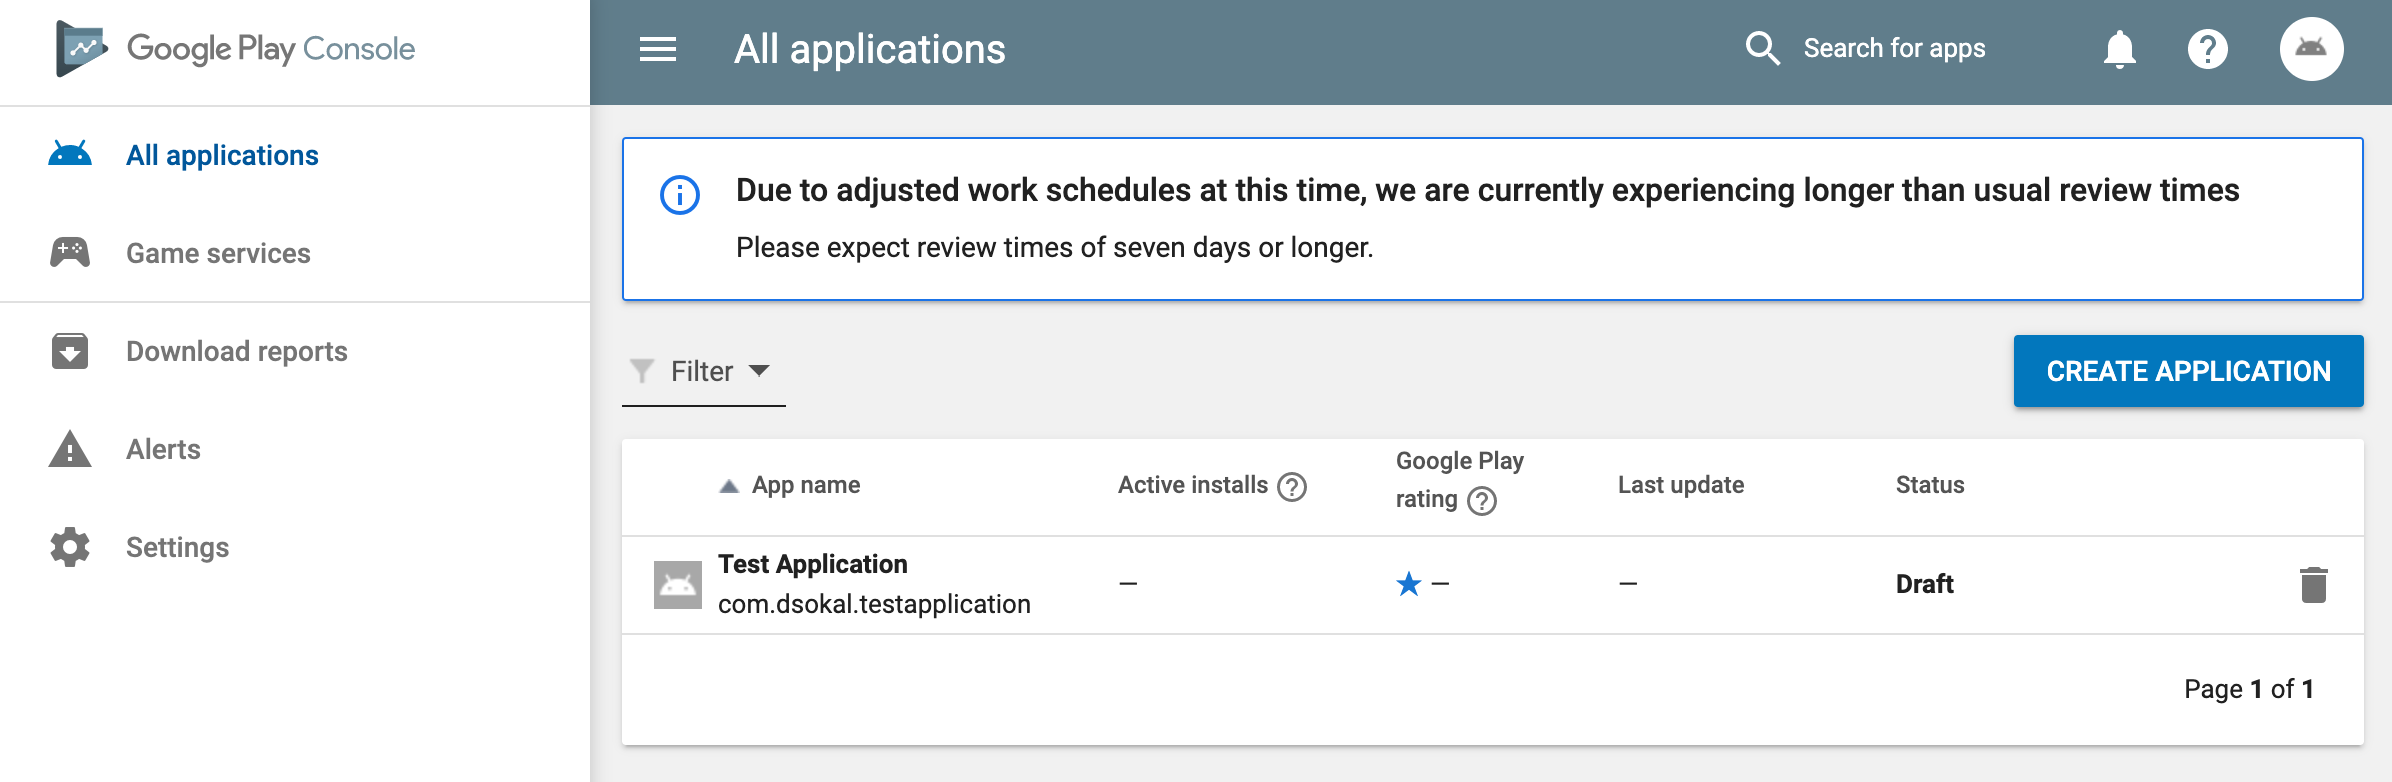
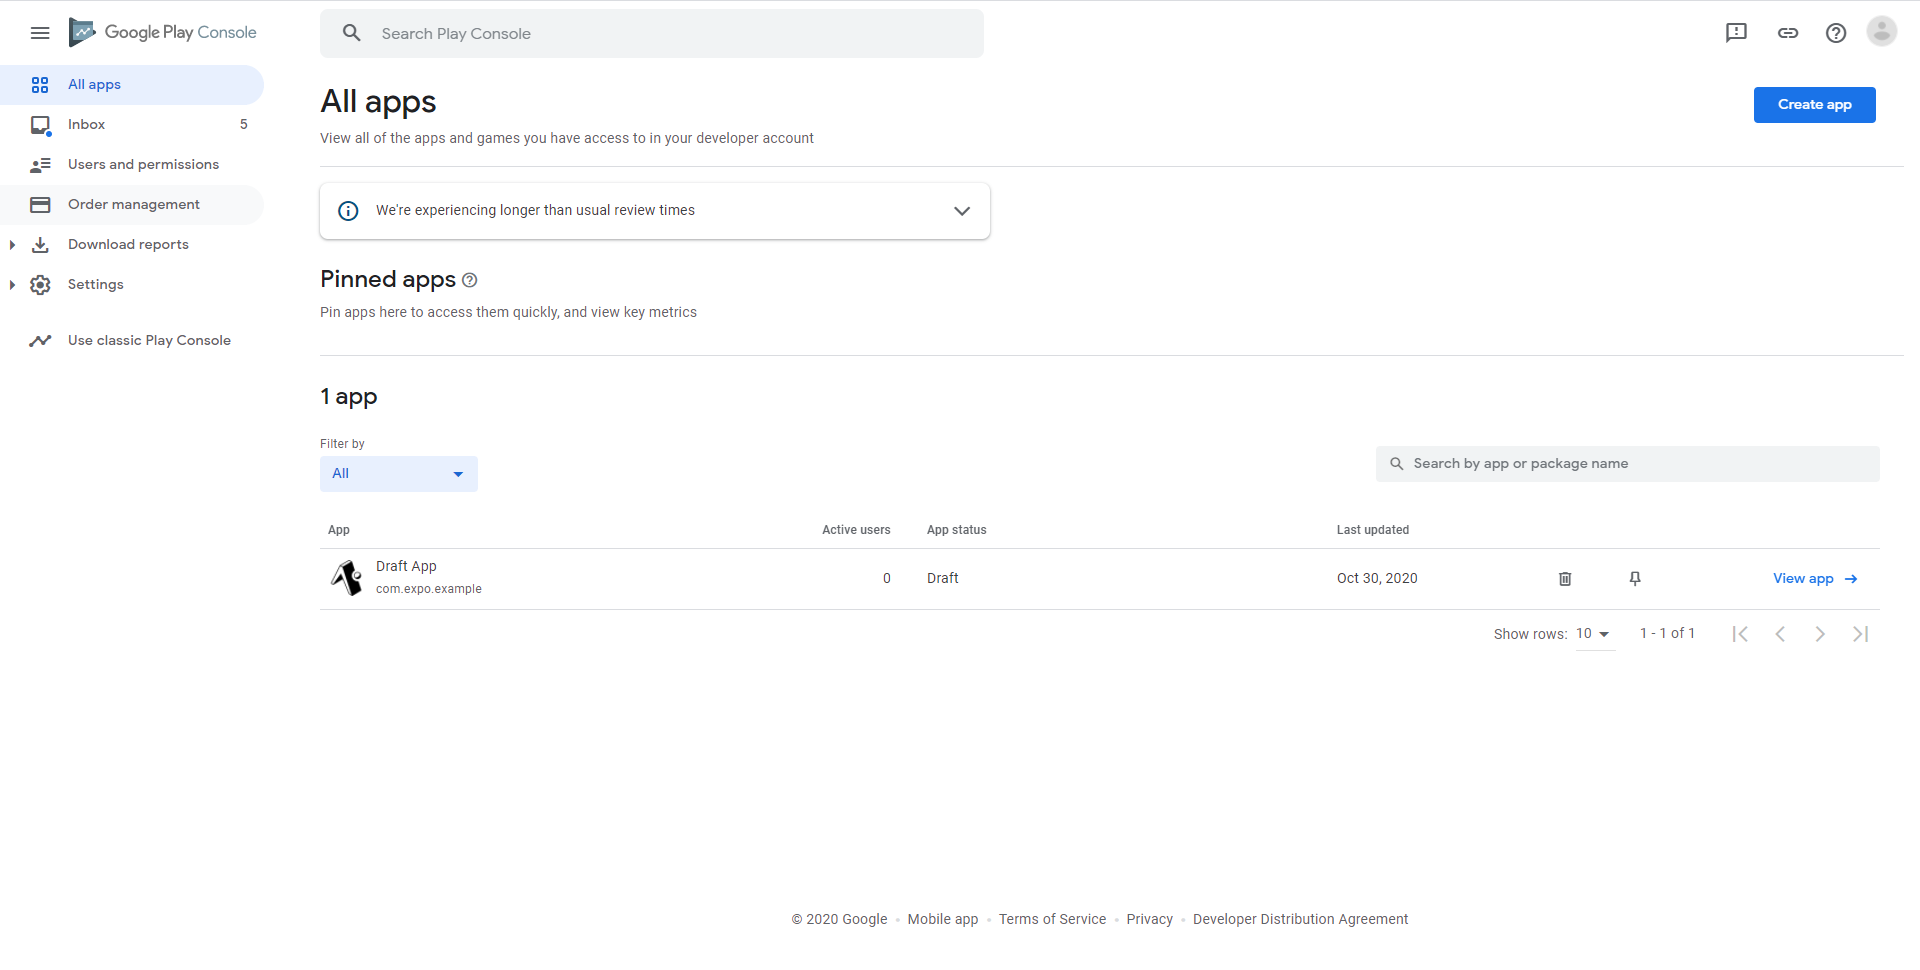
[Update] Use new screenshot of Google new console

diff --git a/first-android-submission.md b/first-android-submission.md
@@ -12,40 +12,45 @@ This page will guide you through creating an app in Google Play Console and uplo
 
 [<img src="./assets/first-android-submission/01-open-google-play-console.png" width="800" />](./assets/first-android-submission/01-open-google-play-console.png)
 
-2. Click the **CREATE APPLICATION** button. A modal will pop up.
-3. Select **Default language**, fill in the **Title** input and click **CREATE**.
+2. Click the **Create app** button.
+3. Select **Default language**, **App or game**, **Free or paid**, fill in the **App name** input and click **Create app**.
 
 [<img src="./assets/first-android-submission/02-create-application.png" width="800" />](./assets/first-android-submission/02-create-application.png)
 
-4. You'll be redirected to a new subpage where you can set **Product details**. **You don't need to set them now, come back and do this later.**
+4. You'll be redirected to a new page **Dashboard** where you need to fill all information about your application. **You don't need to set them now, come back and do this later.**
 
-[<img src="./assets/first-android-submission/03-product-details.png" width="800" />](./assets/first-android-submission/03-product-details.png)
+[<img src="./assets/first-android-submission/03-dashboard.png" width="800" />](./assets/first-android-submission/03-dashboard.png)
 
-5. Go to the **App releases** tab and scroll to the **Internal test track** section. Click the **MANAGE** button.
+5. You'll need to go through all steps to fill the application details
+>Note: This step is important otherwise, you will have some errors related to the application information when you want to publish your application.
 
-[<img src="./assets/first-android-submission/04-app-releases.png" width="800" />](./assets/first-android-submission/04-app-releases.png)
+[<img src="./assets/first-android-submission/04-steps.png" width="800" />](./assets/first-android-submission/04-steps.png)
 
-6. Click the **CREATE RELEASE** button.
+5. Go to the **Testing** tab and scroll to the **Internal test track** section and click on it.
 
-[<img src="./assets/first-android-submission/05-create-release.png" width="800" />](./assets/first-android-submission/05-create-release.png)
+[<img src="./assets/first-android-submission/05-testing.png" width="800" />](./assets/first-android-submission/05-testing.png)
 
-7. Opt in to app signing by Google Play. Althought it's not necessary, this will let you upload your app if you somehow happen to lose your Android Keystore. Click the **CONTINUE** button.
+6. Click the **Create new release** button.
 
-[<img src="./assets/first-android-submission/06-google-app-signing.png" width="800" />](./assets/first-android-submission/06-google-app-signing.png)
+[<img src="./assets/first-android-submission/06-create-release.png" width="800" />](./assets/first-android-submission/06-create-release.png)
+
+7. Opt in to app signing by Google Play. Althought it's not necessary, this will let you upload your app if you somehow happen to lose your Android Keystore. Click the **Continue** button.
+
+[<img src="./assets/first-android-submission/07-google-app-signing.png" width="800" />](./assets/first-android-submission/07-google-app-signing.png)
 
 8. Click **BROWSE FILES** and choose the `.apk` (or `.aab`) file from your computer to upload the archive.
 
-[<img src="./assets/first-android-submission/07-upload-apk.png" width="800" />](./assets/first-android-submission/07-upload-apk.png)
+[<img src="./assets/first-android-submission/08-upload-apk.png" width="800" />](./assets/first-android-submission/08-upload-apk.png)
 
 9. Once the upload completes, you'll see the archive type along with the **Version code**. The **Version code** is used to identify your app's releases. Each new release needs to have a unique **Version code**. If you're using the Expo Managed Workflow you can set this value in `app.json` - `expo.android.versionCode`.
 
-[<img src="./assets/first-android-submission/08-uploaded-apk.png" width="800" />](./assets/first-android-submission/08-uploaded-apk.png)
+[<img src="./assets/first-android-submission/09-uploaded-apk.png" width="800" />](./assets/first-android-submission/09-uploaded-apk.png)
 
-10. Scroll down and click **SAVE**.
+10. You'll need to fill the **Release name** input and click on the button **Review release**.
 
-[<img src="./assets/first-android-submission/09-submitting-release.png" width="800" />](./assets/first-android-submission/09-submitting-release.png)
+[<img src="./assets/first-android-submission/10-submitting-release.png" width="800" />](./assets/first-android-submission/10-submitting-release.png)
 
-11. You'll be redirected to the **Review summary** subpage. If you're using the Expo Managed Workflow you'll see the **Errors** section. Click **VIEW ERROR MESSAGE** to find out that you are required to have a privacy policy set. See another guide to learn how to do it - [expo.fyi/missing-privacy-policy](https://expo.fyi/missing-privacy-policy).
+11. You'll be redirected to the **Review summary** subpage. If you're using the Expo Managed Workflow you'll see the **Errors** section. Click **Show more** to find out that you are required to have a privacy policy set. See another guide to learn how to do it - [expo.fyi/missing-privacy-policy](https://expo.fyi/missing-privacy-policy).
 
-[<img src="./assets/first-android-submission/10-review-summary.png" width="800" />](./assets/first-android-submission/10-review-summary.png)
-[<img src="./assets/first-android-submission/11-privacy-policy-error.png" width="800" />](./assets/first-android-submission/11-privacy-policy-error.png)
+[<img src="./assets/first-android-submission/11-review-summary.png" width="800" />](./assets/first-android-submission/10-review-summary.png)
+[<img src="./assets/first-android-submission/12-privacy-policy-error.png" width="800" />](./assets/first-android-submission/12-privacy-policy-error.png)

diff --git a/missing-privacy-policy.md b/missing-privacy-policy.md
@@ -12,11 +12,11 @@ If you're submitting your Android app to Google Play Store using the `expo uploa
 
 This page will guide you through setting a privacy policy in Google Play Console.
 
-1. Open [Google Play Console](https://play.google.com/apps/publish/), find your app on the list and enter the dashboard.
+1. Open [Google Play Console](https://play.google.com/apps/publish/), find your app on the list and click on `View app` to access to the dashboard.
 
 [<img src="./assets/missing-privacy-policy/02-open-google-play-console.png" width="800" />](./assets/missing-privacy-policy/02-open-google-play-console.png)
 
-2. On the sidebar, choose **App content** and click the **Start** button in the **Privacy policy** section.
+2. On the sidebar, choose **App content** (which located at the bottom) and click the **Start** button in the **Privacy policy** section.
 
 [<img src="./assets/missing-privacy-policy/03-app-content.png" width="800" />](./assets/missing-privacy-policy/03-app-content.png)
 
@@ -24,9 +24,15 @@ This page will guide you through setting a privacy policy in Google Play Console
 
 [<img src="./assets/missing-privacy-policy/04-privacy-policy-form.png" width="800" />](./assets/missing-privacy-policy/04-privacy-policy-form.png)
 
-4. Find your release in the **App releases** tab. Verify that no errors show up in the **Review summary** section.
+4. Edit your release **App releases** tab.
 
-[<img src="./assets/missing-privacy-policy/05-release-summary.png" width="800" />](./assets/missing-privacy-policy/05-release-summary.png)
+[<img src="./assets/missing-privacy-policy/05-internal-releases.png" width="800" />](./assets/missing-privacy-policy/05-internal-releases.png)
+
+5. Find your release in the **App releases** tab. Verify that no errors show up in the **Review summary** section.
+
+[<img src="./assets/missing-privacy-policy/06-release-summary.png" width="800" />](./assets/missing-privacy-policy/05-release-summary.png)
+
+[<img src="./assets/missing-privacy-policy/06-release-summary-2.png" width="800" />](./assets/missing-privacy-policy/05-release-summary-2.png)
 
 #### ... or Customize App Permissions
 
